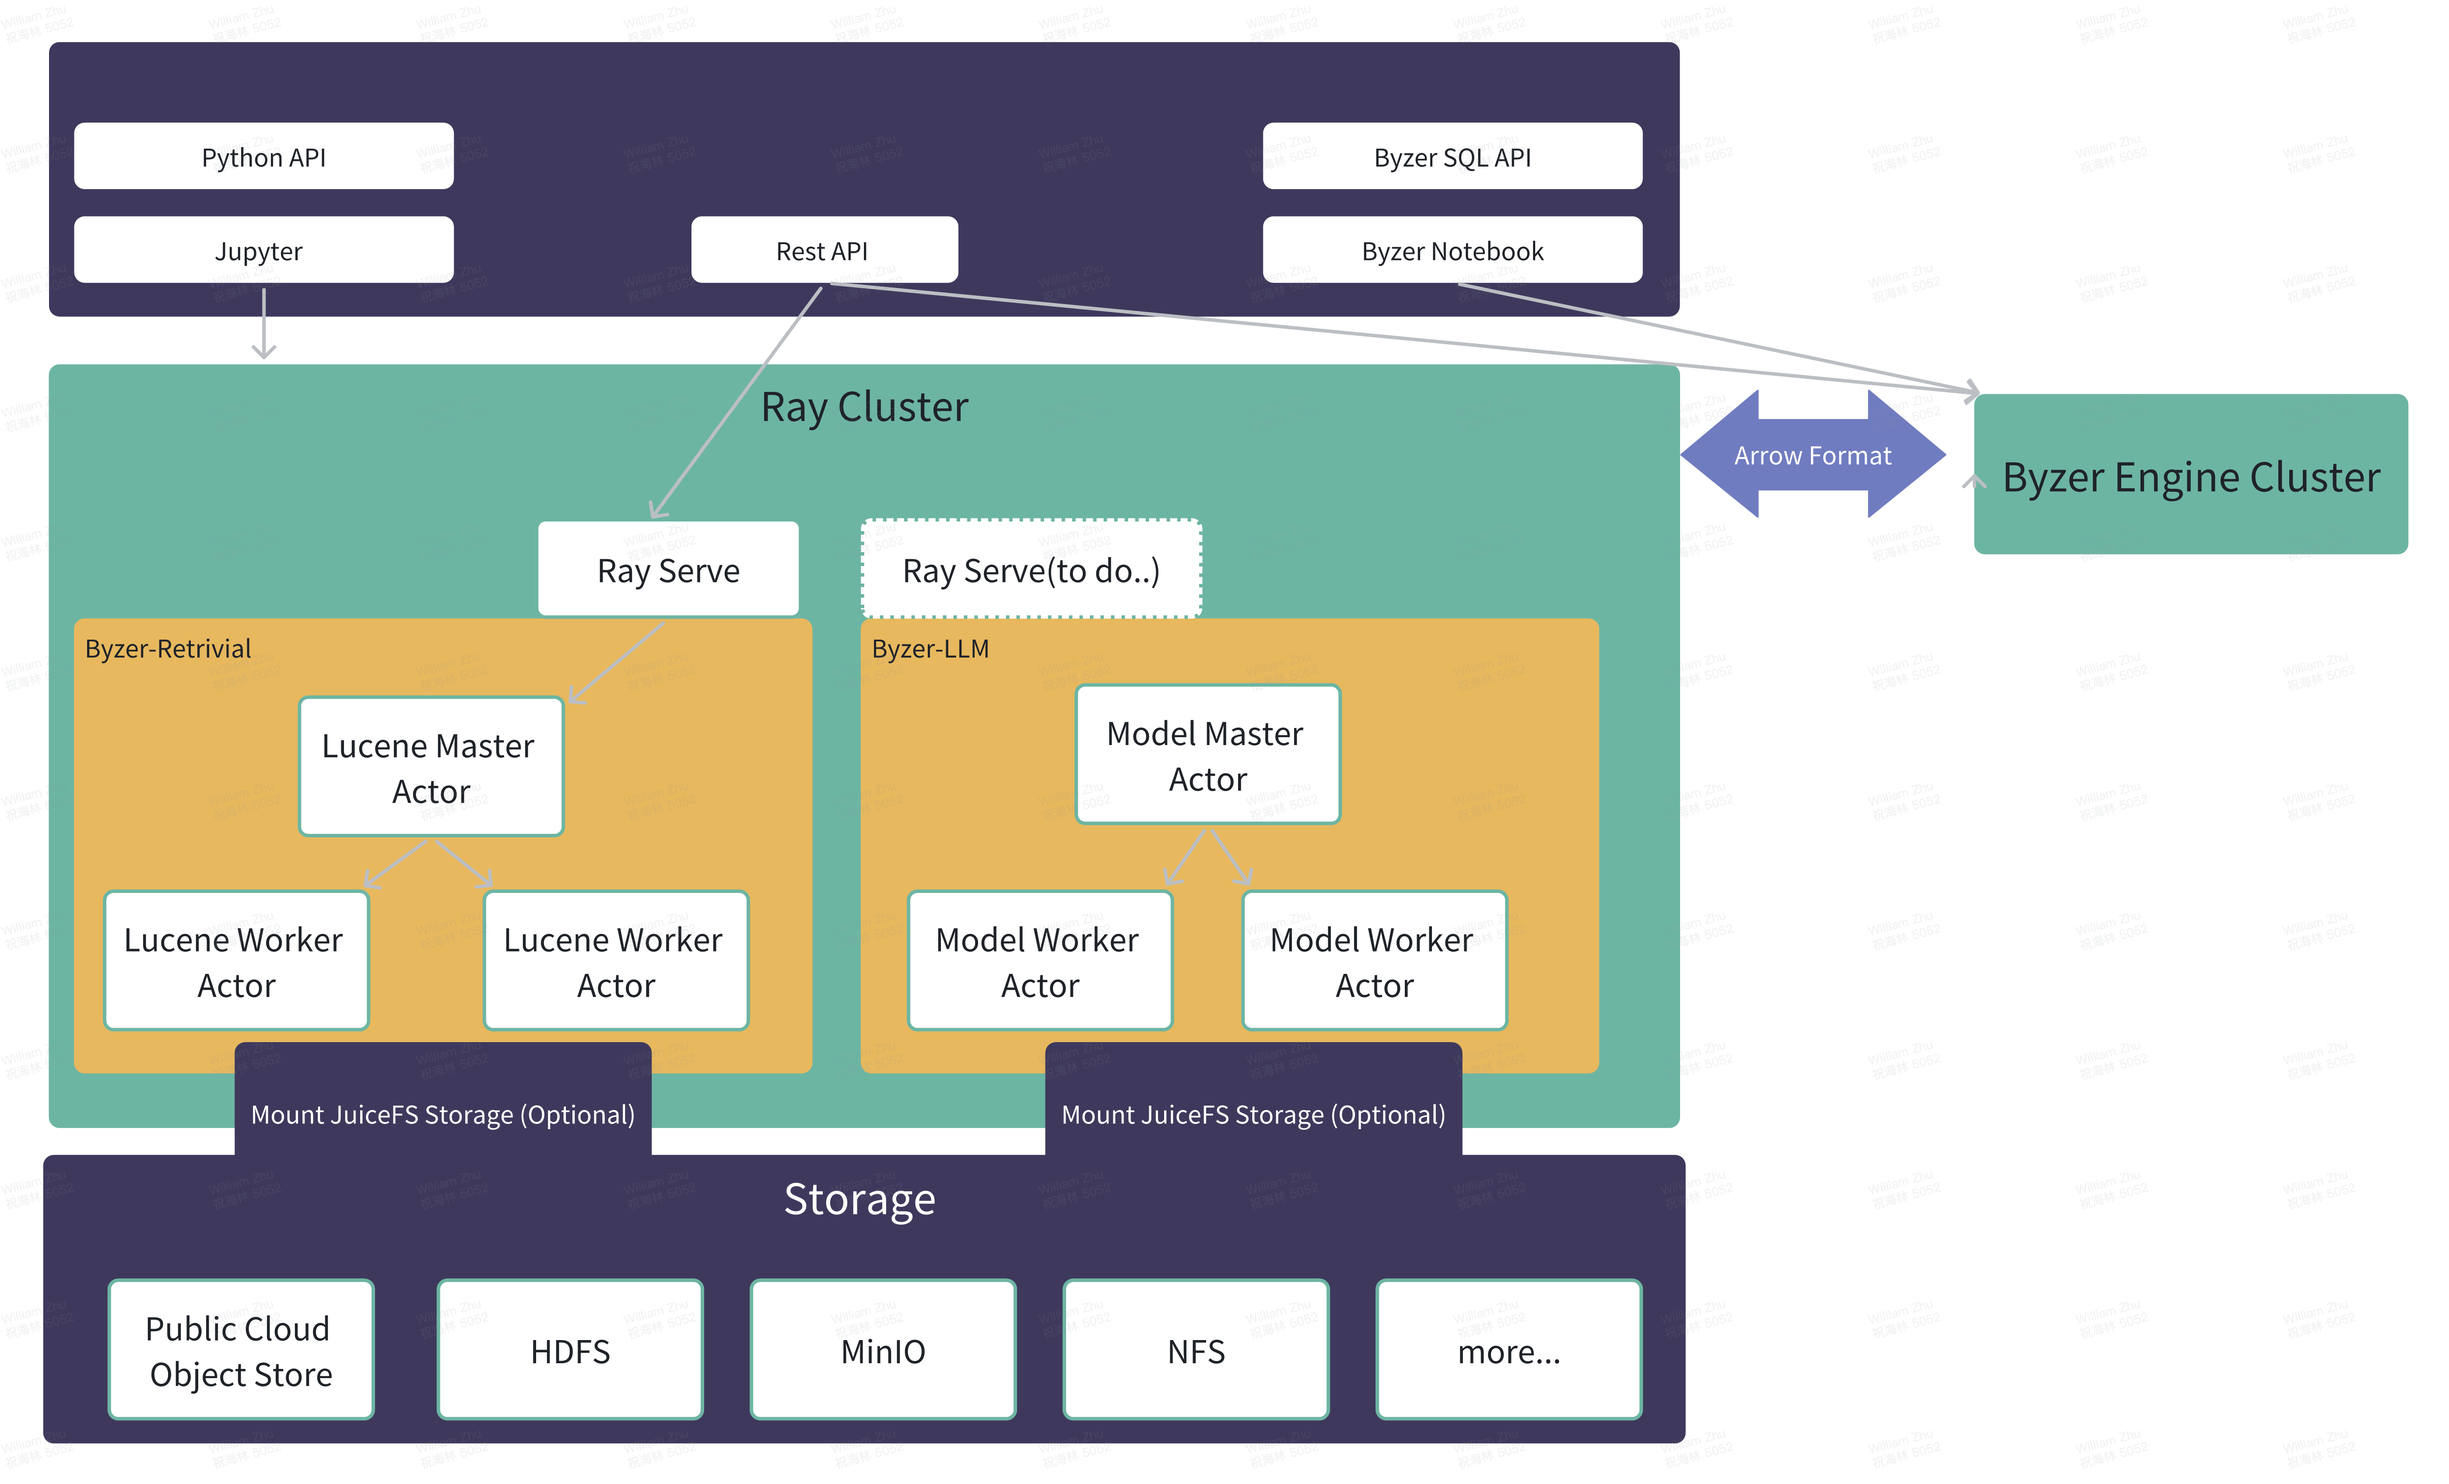
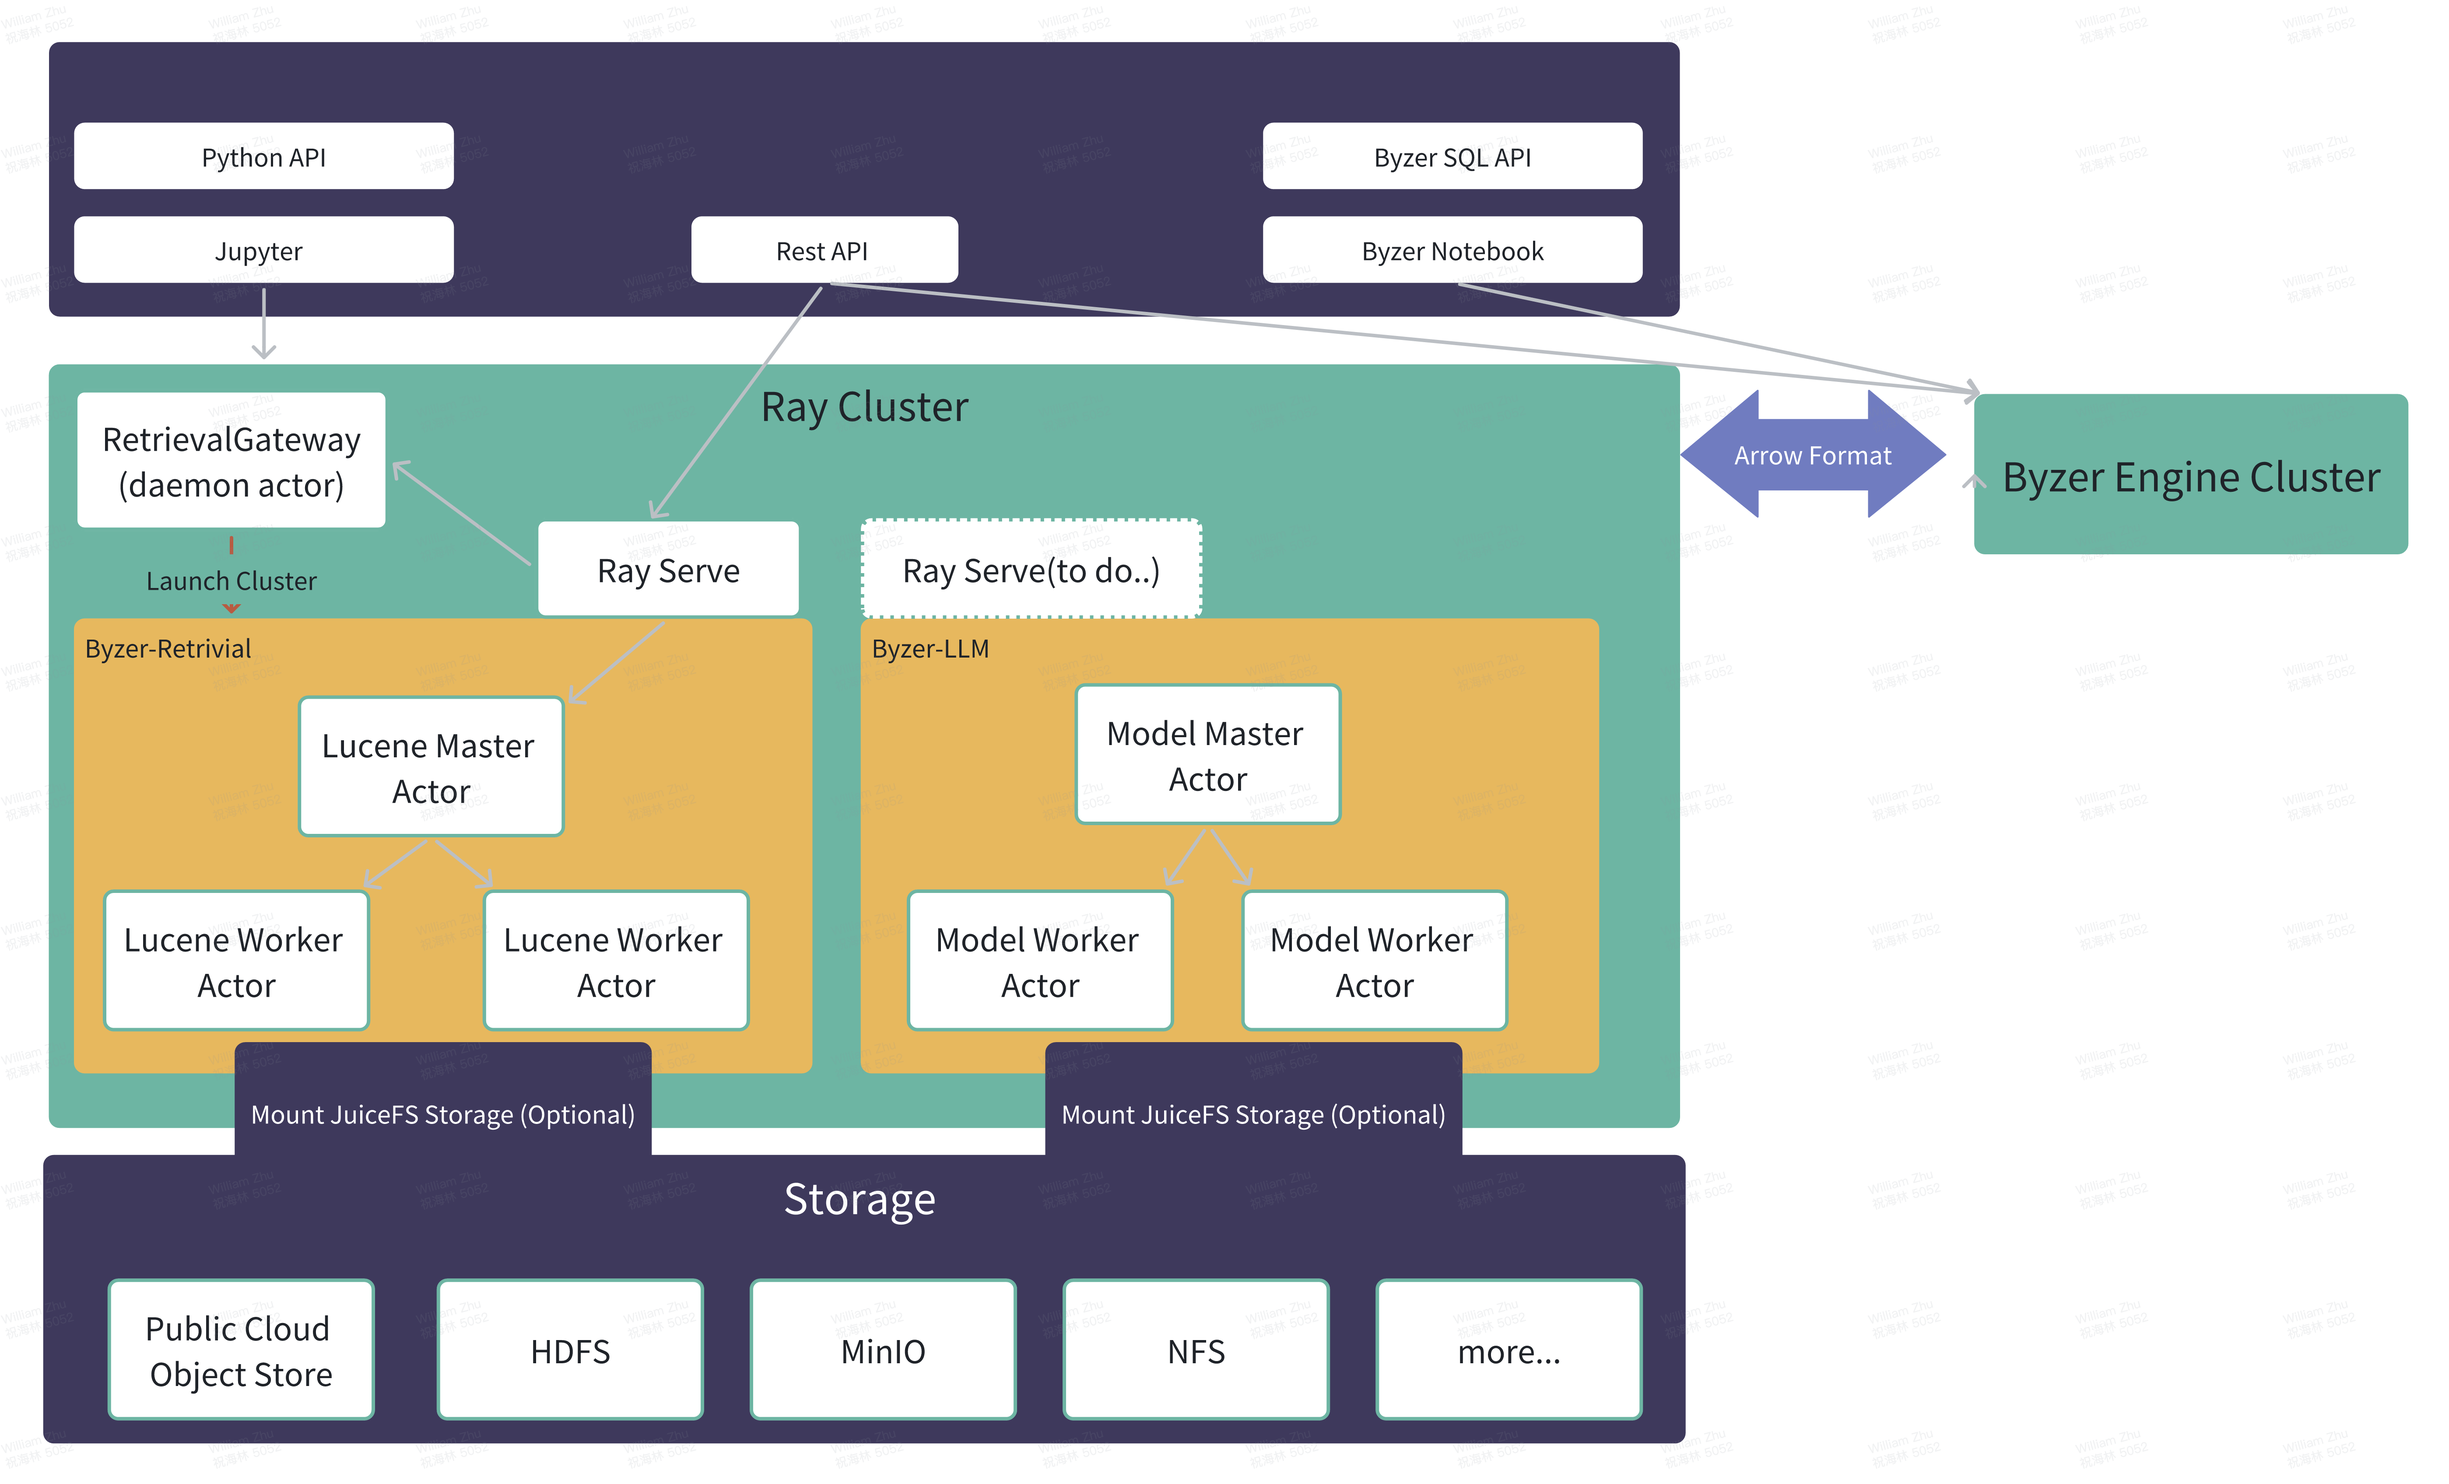
udpate doc

Changed region(s): [[0.0311, 0.25, 0.1866, 0.4062]]

diff --git a/README.md b/README.md
@@ -19,8 +19,8 @@ to improve the concurrency performance of cluster.
 
 ![](images/byzer-retrieval.png)
 
-The above figure shows the architecture of Byzer-retrieval. The user can use Python/Rest/SQL API to 
-create a retrieval cluster. The user can create any number of clusters, and each cluster can contain any number of tables.
+The above figure shows the architecture of Byzer-retrieval. The user can use Python/Rest/SQL API to launch a RetrievalGateway,
+and then use the RetrievalGateway to create a retrieval cluster. Actually, you can create any number of clusters, and each cluster can contain any number of tables.
 Notice that all tables in the same cluster have the same shard number. Each cluster will have a master actor and 
 some worker actors, and all these actors are Java actors. The master actor is as the entry point of the cluster.
 
